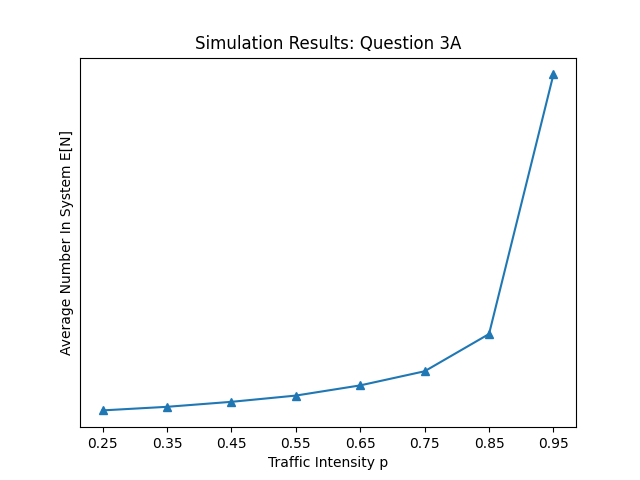
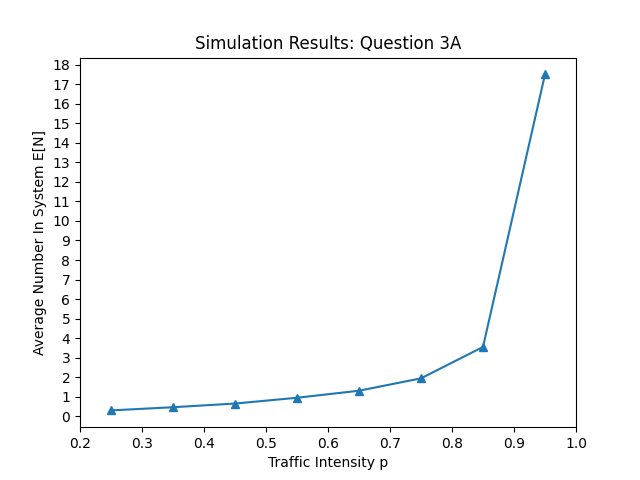
Updated graphs to include y-ticks via the professors request. Also added the README.txt file within the project file.

diff --git a/des_mm1k.py b/des_mm1k.py
@@ -208,10 +208,10 @@ for sims in range(len(rho_values)):
     list_of_EN25.append(sim.get_en())
     list_of_pLOSS25.append(sim.get_ploss())
 
-print("List Of AVG Num Of Packets In System For K = 25: ", list_of_EN10)
+print("List Of AVG Num Of Packets In System For K = 25: ", list_of_EN25)
 print("Total Packets Dropped: ", sim.drops)
 print("Total Packets Departed: ", sim.departures)
-print("List Of Ploss Values For K = 25: ", list_of_pLOSS10)
+print("List Of Ploss Values For K = 25: ", list_of_pLOSS25)
 
 # Running the simulator for k = 50 based on different lambda values calculated above.
 
@@ -221,10 +221,10 @@ for sims in range(len(rho_values)):
     list_of_EN50.append(sim.get_en())
     list_of_pLOSS50.append(sim.get_ploss())
 
-print("List Of AVG Num Of Packets In System For K = 50: ", list_of_EN10)
+print("List Of AVG Num Of Packets In System For K = 50: ", list_of_EN50)
 print("Total Packets Dropped: ", sim.drops)
 print("Total Packets Departed: ", sim.departures)
-print("List Of Ploss Values For K = 50: ", list_of_pLOSS10)
+print("List Of Ploss Values For K = 50: ", list_of_pLOSS50)
 
 # Creating Graph For E[N]
 # X-Axis: Rho
@@ -237,7 +237,7 @@ plt.plot(x, y1, marker = '^', label = 'K = %s'% k_values[0])
 plt.plot(x, y2, marker = 'o', label = 'K = %s'% k_values[1])
 plt.plot(x, y3, marker = '*', label = 'K = %s'% k_values[2])
 plt.xticks(np.arange(x[0], x[9]+0.2, 0.1))
-plt.yticks([])
+plt.yticks(np.arange(0, y3[9]+1, 5))
 plt.title('Simulation Results: Question 6A')
 plt.xlabel('Traffic Intensity p')
 plt.ylabel('Average Number In System E[N]')
@@ -255,7 +255,7 @@ plt.plot(x, y1, marker = '^', label = 'K = %s'% k_values[0])
 plt.plot(x, y2, marker = 'o', label = 'K = %s'% k_values[1])
 plt.plot(x, y3, marker = '*', label = 'K = %s'% k_values[2])
 plt.xticks(np.arange(x[0], x[9]+0.2, 0.1))
-plt.yticks([])
+plt.yticks(np.arange(0, y3[9]+0.1, 0.1))
 plt.title('Simulation Results: Question 6B')
 plt.xlabel('Traffic Intensity p')
 plt.ylabel('Probability Of Packet Loss pLoss')

diff --git a/des_mm1.py b/des_mm1.py
@@ -160,8 +160,8 @@ print("List Of pIDLE Values", list_of_Pidles)
 x = rho_values
 y = list_of_Ens
 plt.plot(x, y, marker = '^')
-plt.xticks(np.arange(x[0], x[7]+0.1, 0.1))
-plt.yticks([])
+plt.xticks(np.arange(0.2, x[7]+0.1, 0.1))
+plt.yticks(np.arange(0, y[7]+1, 1))
 plt.title('Simulation Results: Question 3A')
 plt.xlabel('Traffic Intensity p')
 plt.ylabel('Average Number In System E[N]')
@@ -173,8 +173,8 @@ plt.show()
 x = rho_values
 y = list_of_Pidles
 plt.plot(x, y, marker = '^')
-plt.xticks(np.arange(x[0], x[7]+0.1, 0.1))
-plt.yticks([])
+plt.xticks(np.arange(0.2, x[7]+0.1, 0.1))
+plt.yticks(np.arange(0, y[0]+0.1, 0.1))
 plt.title('Simulation Results: Question 3B')
 plt.xlabel('Traffic Intensity p')
 plt.ylabel('Probability The Queue Is Idle pIDLE')
